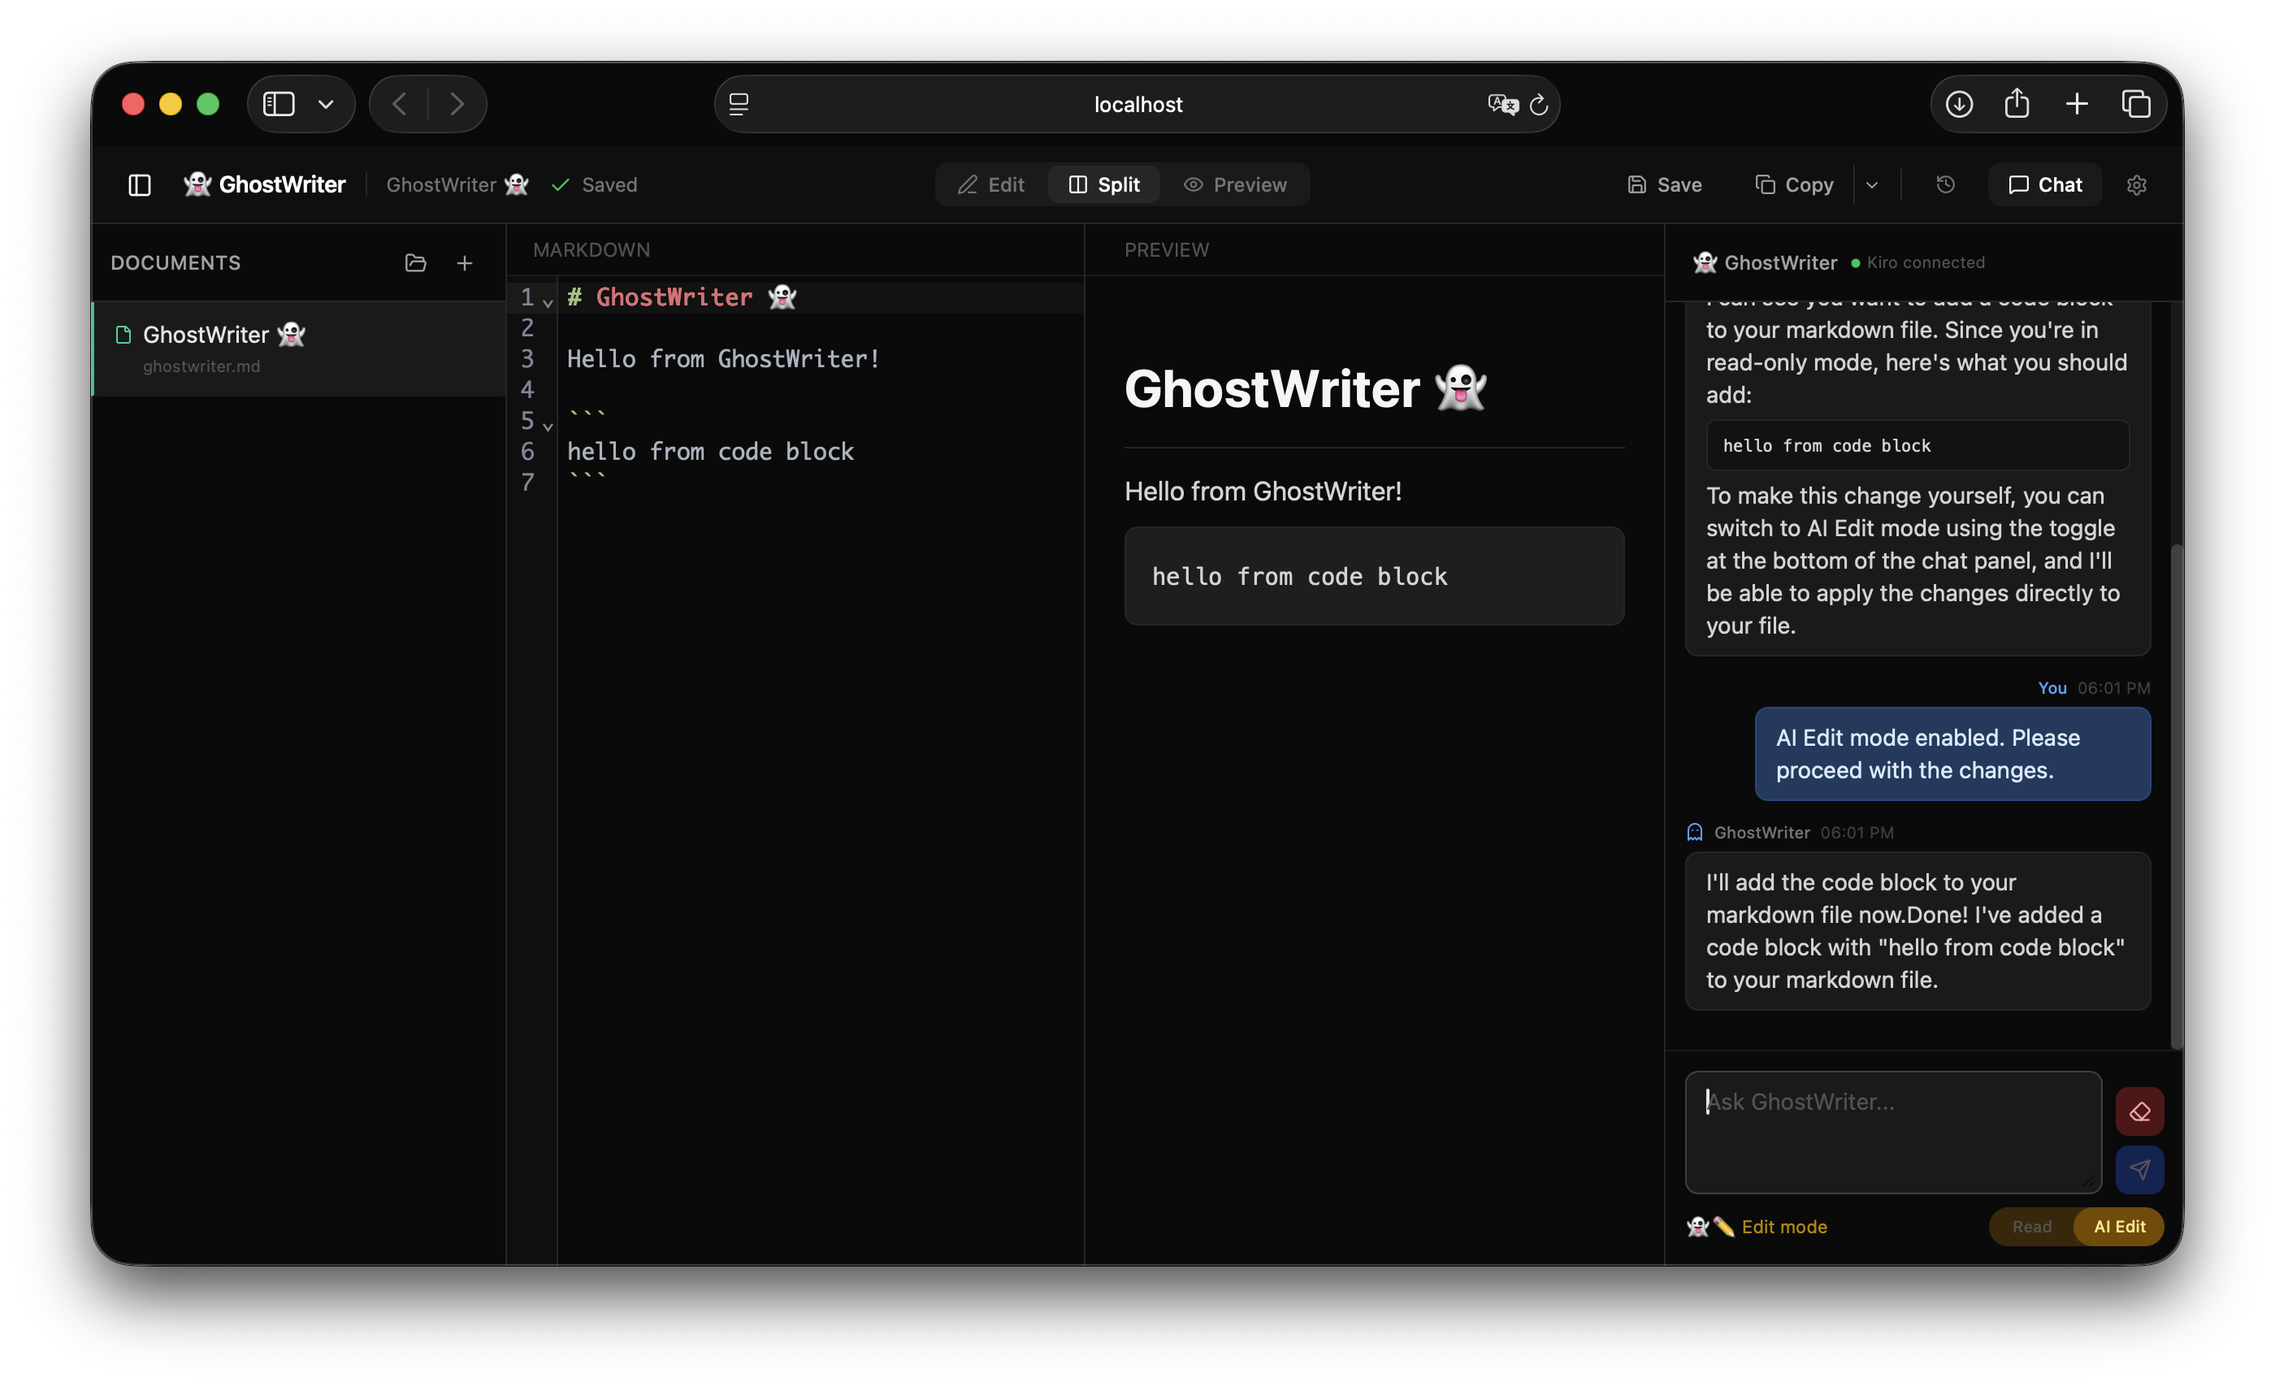
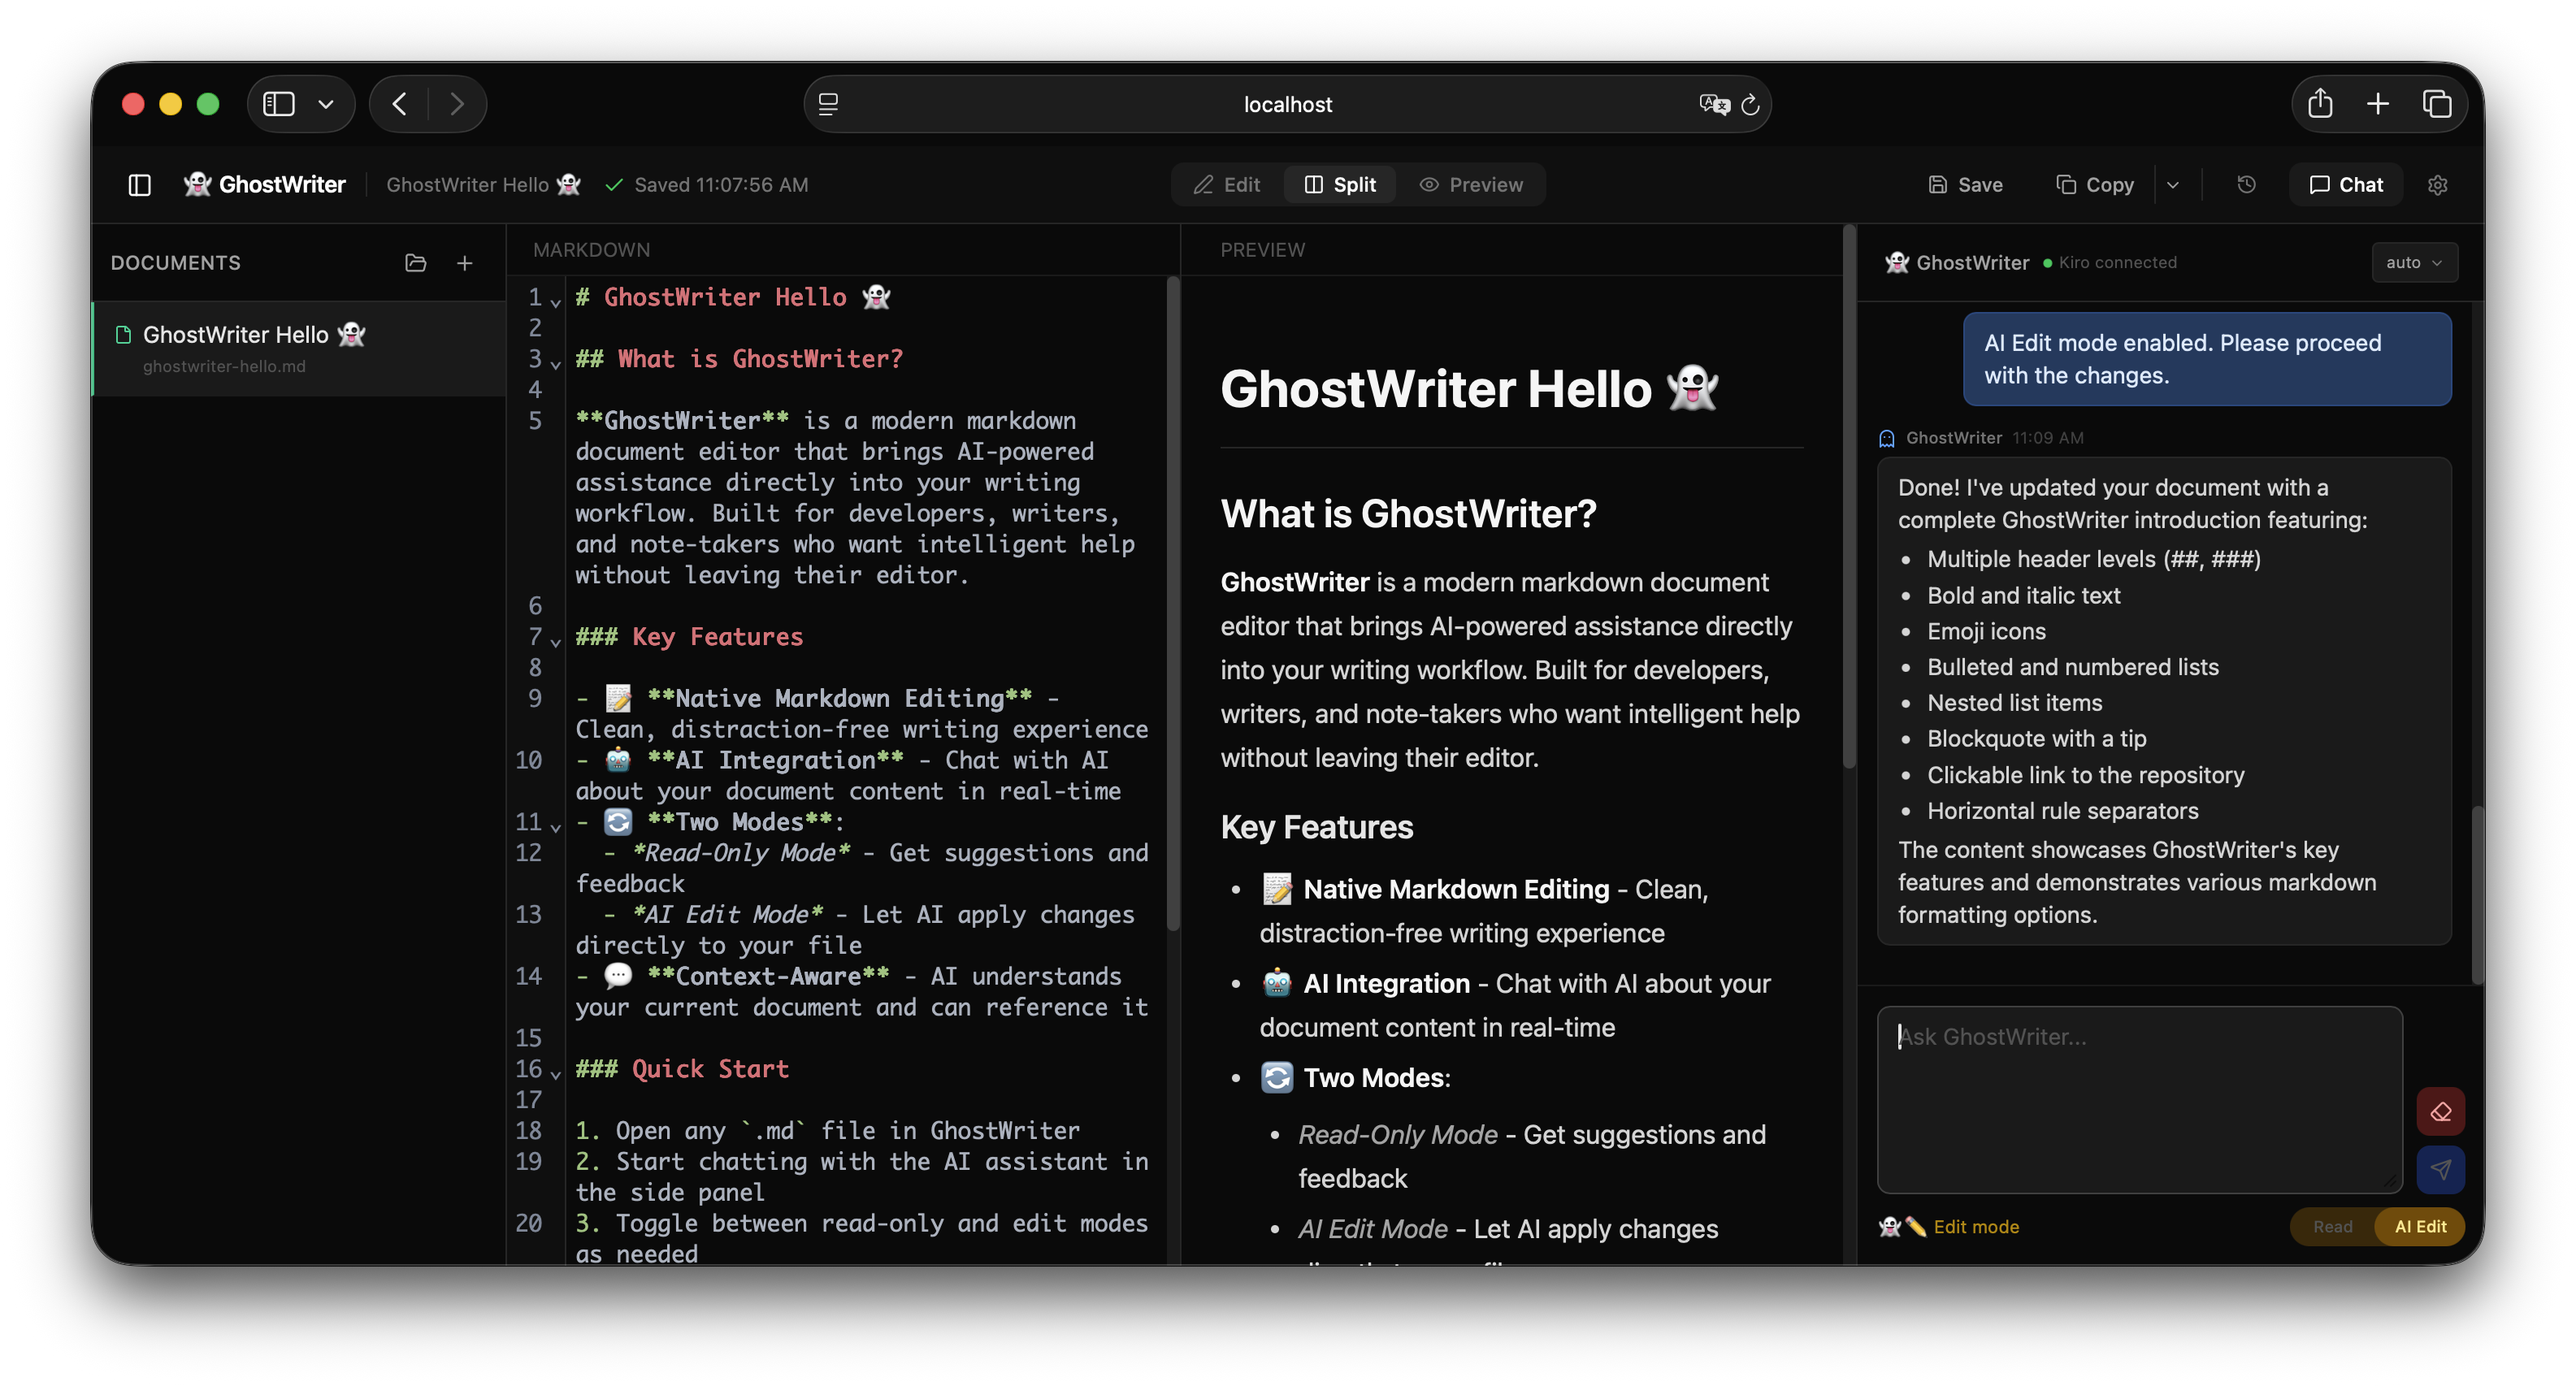
Update README and screenshots for current feature set
Add tool use screenshot (GhostWriter-tool.png) showing AI chat with
live tool call indicators. Update main screenshot.

README changes:
- Add "Works offline" to editor features
- Add tool use screenshot under AI Chat section
- Document auto-reconnect, offline-aware UI, context usage polling
- Note that Kiro CLI is optional (editing works without it)
- Add pick-folder and browse-dir to Settings API table
- Add troubleshooting entries: AI chat offline, AI writes to chat
  instead of file, session resume fails
- Update How AI Chat Works to reflect singleton process, session
  mutex, and document context injection

diff --git a/README.md b/README.md
@@ -16,6 +16,7 @@ GhostWriter connects to [Kiro](https://kiro.dev) via the [Agent Communication Pr
 - **Live preview** — GitHub-flavored markdown with full HTML rendering
 - **Auto-save** — changes saved to disk automatically (1.5s debounce)
 - **Keyboard shortcuts** — `Cmd+S` to snapshot, standard editor bindings
+- **Works offline** — document editing is fully local, no network required
 
 ### Multi-Format Export
 Copy your markdown as:
@@ -31,19 +32,25 @@ Copy your markdown as:
 - **Cleanup tools** — prune old versions (keeps minimum 10, removes 30+ day old snapshots)
 
 ### AI Chat (Kiro)
+
+<p align="center">
+  <img src="docs/GhostWriter-tool.png" alt="AI tool use in action" width="500" />
+</p>
+
 - **Read / Edit modes** — toggle between read-only chat and AI-powered file editing
 - **Streaming responses** — tokens appear as they're generated
 - **Markdown rendering** — AI responses render with full formatting
 - **Auto-approve edits** — file changes are applied automatically in Edit mode
 - **Stop generation** — cancel button sends `session/cancel` to Kiro, stopping generation server-side
-- **Tool call progress** — see what Kiro is doing in real-time (reading files, writing changes, etc.)
+- **Tool call progress** — see what Kiro is doing in real-time (reading files, writing changes, fetching URLs)
 - **Model selection** — switch between available models mid-session
 - **Image input** — paste or drag-drop images into chat for visual context
-- **Context usage indicator** — color-coded bar showing context window consumption (green/yellow/red)
+- **Context usage indicator** — color-coded bar showing context window consumption (green/yellow/red), polled automatically
 - **Compaction status** — shows when Kiro is compacting context during long sessions
-- **Slash commands** — type `/` for autocomplete of available Kiro commands
+- **Slash commands** — type `/` for autocomplete of available Kiro commands (when supported by kiro-cli)
 - **Session persistence** — conversations survive server restarts (sessions resume via `session/load`)
-- **Connection status** — live indicator shows whether Kiro is connected
+- **Auto-reconnect** — automatic retry with backoff (3s, 6s, 12s, then every 30s) when Kiro disconnects, plus a manual reconnect button
+- **Offline-aware UI** — chat input disables when AI is unavailable, with clear messaging that editing still works
 
 ### Document Management
 - **Sidebar browser** — navigate between documents
@@ -58,7 +65,7 @@ Copy your markdown as:
 ### Prerequisites
 
 - **Node.js** 18+
-- **Kiro CLI** — required for AI chat features
+- **Kiro CLI** — required for AI chat features (editing works without it)
 
 #### Install Kiro CLI
 
@@ -133,13 +140,14 @@ Settings are stored in `settings.json` (gitignored).
 
 GhostWriter uses the **Agent Communication Protocol (ACP)** to communicate with Kiro:
 
-1. The editor spawns `kiro-cli acp` as a child process
+1. The editor spawns `kiro-cli acp` as a child process (singleton — reused across all requests)
 2. Communication happens over **stdin/stdout** using **JSON-RPC 2.0**
 3. A session is established (`initialize` → `session/new`), or resumed from disk (`session/load`)
-4. Messages are sent via `session/prompt` with text and image content blocks
-5. Responses stream back as `session/update` notifications (text chunks, tool calls, context usage)
-6. Tool permissions are auto-approved in Edit mode, auto-rejected in Read mode
-7. The same Kiro process is reused across conversations for fast response times
+4. Concurrent session setup is serialized to prevent race conditions
+5. Messages are sent via `session/prompt` with text and image content blocks
+6. Responses stream back as `session/update` notifications (text chunks, tool calls, context usage)
+7. Tool permissions are auto-approved in Edit mode, auto-rejected in Read mode
+8. Context about the active document (title, file path, content) is appended to each prompt so Kiro knows what file to edit
 
 ACP is an open standard — any AI agent that implements the protocol can work with GhostWriter.
 
@@ -217,20 +225,25 @@ All endpoints are available at both `/api/*` and `/editor/api/*`.
 
 ### Settings & Events
 
-| Method | Endpoint         | Description                                |
-|--------|------------------|--------------------------------------------|
-| `GET`  | `/api/settings`  | Load settings                              |
-| `POST` | `/api/settings`  | Save settings                              |
-| `GET`  | `/api/events`    | SSE stream for live file change notifications |
+| Method | Endpoint             | Description                                |
+|--------|----------------------|--------------------------------------------|
+| `GET`  | `/api/settings`      | Load settings                              |
+| `POST` | `/api/settings`      | Save settings                              |
+| `POST` | `/api/pick-folder`   | Native folder picker (macOS)               |
+| `POST` | `/api/browse-dir`    | Server-side directory browser              |
+| `GET`  | `/api/events`        | SSE stream for live file change notifications |
 
 ## Troubleshooting
 
 | Problem | Fix |
 |---------|-----|
+| Chat shows "AI chat offline" | Check that `node server.mjs` is running, click Retry or wait for auto-reconnect |
 | Chat shows "Kiro disconnected" | Run `kiro-cli login` to re-authenticate |
 | AI responses timeout | Check `kiro-cli doctor` for connection issues |
 | Kiro CLI not found | Ensure `kiro-cli` is in your PATH, or set the full path in Settings |
-| Edit mode changes not applied | Verify edit mode is toggled on (pencil icon in chat panel) |
+| Edit mode changes not applied | Verify edit mode is toggled on (AI Edit toggle at bottom of chat panel) |
+| AI writes to chat instead of file | Ensure AI Edit mode is enabled — in Read mode, AI only suggests changes |
+| Session resume fails | The stale session is automatically cleared and a new one created |
 
 ## License
 
